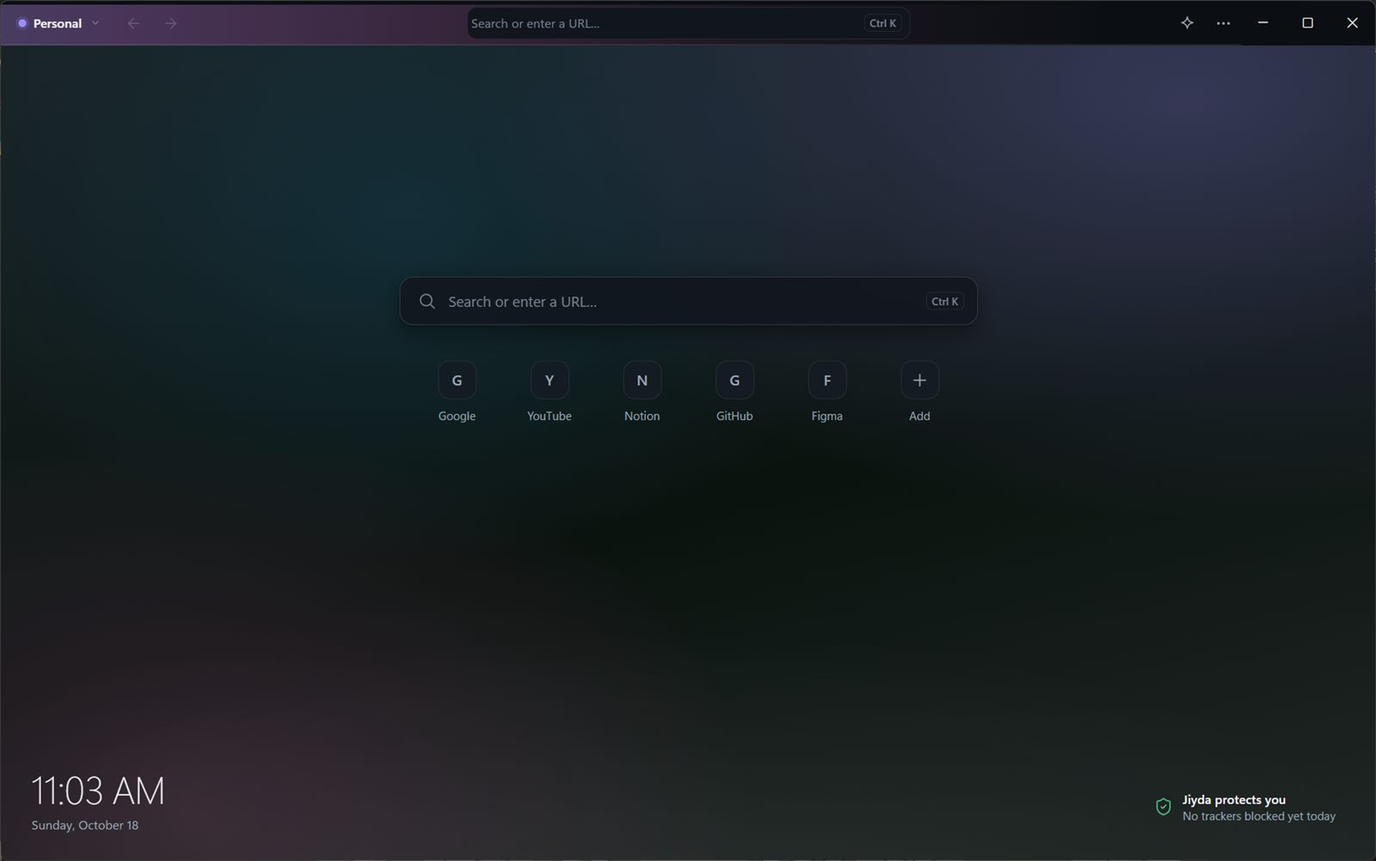
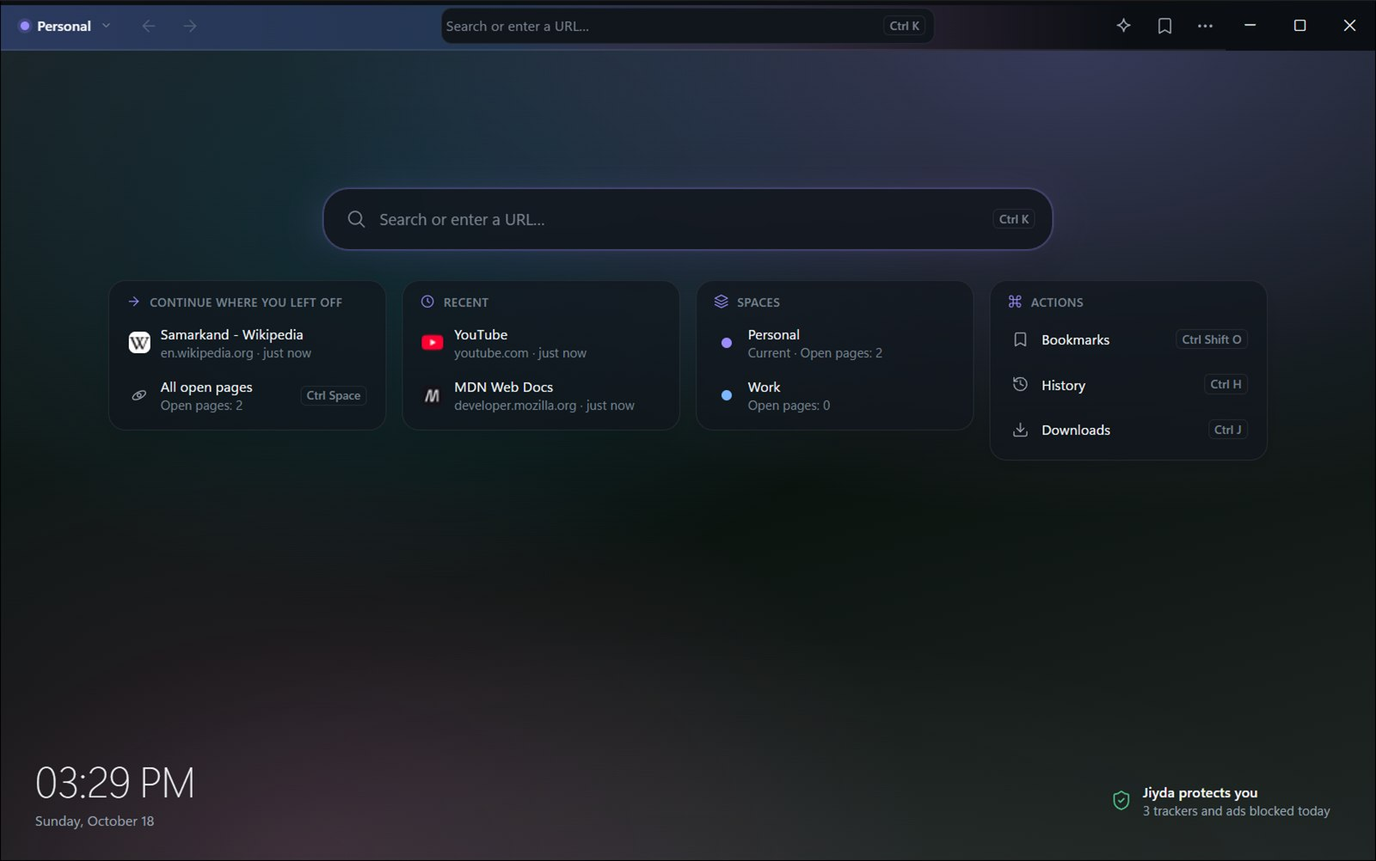
Сайт: новая New Page на скриншотах, «каждая страница на своём месте», раздел про Rust
- Скриншоты New Page с карточками и подсветкой на трёх языках.
- Новое позиционирование: Spaces и Orbit вместо полосы вкладок; заголовки, описания,
  строка под кнопкой (Rust, около 4 МБ).
- Раздел «Написан на Rust»: без Electron, около 4 МБ, WebView2 обновляет Windows,
  код открыт на GitHub.
- Карточки: New Page и «Закладки под рукой» вместо Later (теперь в Orbit) и переезда.

Публикуется вместе с релизом 0.6.4.

diff --git a/site/ru/index.html b/site/ru/index.html
@@ -3,8 +3,8 @@
 <head>
 <meta charset="utf-8">
 <meta name="viewport" content="width=device-width, initial-scale=1">
-<title>Jiyda — спокойный браузер</title>
-<meta name="description" content="Jiyda — спокойный минималистичный браузер для Windows из Узбекистана. Приватный по умолчанию, помогает сосредоточиться, бесплатный.">
+<title>Jiyda — каждая страница на своём месте</title>
+<meta name="description" content="Jiyda — бесплатный браузер для Windows, написанный на Rust в Узбекистане. Spaces и Orbit вместо полосы вкладок, New Page, которая продолжает с того места, где вы остановились, и никакой слежки.">
 <link rel="icon" href="../favicon.ico">
 <link rel="stylesheet" href="../assets/site.css">
 <link rel="alternate" hreflang="en" href="../en/">
@@ -16,6 +16,7 @@
   <a class="brand" href="./"><img src="../assets/mark.png" alt="" width="30" height="30">Jiyda</a>
   <nav aria-label="Сайт">
     <a href="#features">Возможности</a>
+    <a href="#rust">Rust</a>
     <a href="privacy.html">Приватность</a>
     <a href="security.html">Безопасность</a>
     <span class="langs" aria-label="Язык"><a href="../uz/" hreflang="uz" lang="uz">Oʻz</a><a href="./" aria-current="true">Ру</a><a href="../en/" hreflang="en" lang="en">En</a></span>
@@ -25,16 +26,16 @@
 
 <main>
   <div class="wrap hero">
-    <h1>Интернет — спокойнее.</h1>
-    <p class="lead">Jiyda — тихий браузер для Windows. Приватный по умолчанию, помогает сосредоточиться и не мешает, когда вы просто читаете.</p>
+    <h1>Каждая страница — на своём месте.</h1>
+    <p class="lead">Jiyda — браузер для Windows, написанный на Rust. Вместо полосы вкладок — Spaces для каждой части жизни и Orbit, где видно всё сразу. New Page продолжает с того места, где вы остановились, а история не покидает ваш компьютер.</p>
     <div class="cta">
       <a class="btn" href="https://github.com/chatyev/jiyda/releases/latest/download/JiydaSetup.exe">
         <svg viewBox="0 0 24 24" fill="none" stroke="currentColor" stroke-width="2" stroke-linecap="round" stroke-linejoin="round" aria-hidden="true"><path d="M12 15V3"/><path d="M21 15v4a2 2 0 0 1-2 2H5a2 2 0 0 1-2-2v-4"/><path d="m7 10 5 5 5-5"/></svg>
         Скачать для Windows</a>
       <a class="btn ghost" href="#privacy">Как Jiyda обращается с данными</a>
     </div>
-    <p class="meta">Бесплатно · Windows 10 и 11 · Oʻzbekcha, Русский, English</p>
-    <img class="shot" src="../assets/app-ru.jpg" width="1600" height="1002" alt="Окно Jiyda с новой страницей: поле поиска, несколько сайтов и надпись «Jiyda защищает вас».">
+    <p class="meta">Бесплатно · Написан на Rust · Около 4 МБ · Windows 10 и 11 · Oʻzbekcha, Русский, English</p>
+    <img class="shot" src="../assets/app-ru.jpg" width="1600" height="1002" alt="Окно Jiyda с новой страницей: поле поиска с мягкой подсветкой в цвет Space и карточки — продолжить последнюю страницу, вернуть недавние сайты, переключить Space, открыть закладки.">
   </div>
 
   <section id="features" class="wrap">
@@ -44,19 +45,34 @@
       <div class="card"><div class="ic"><svg viewBox="0 0 24 24" fill="none" stroke="currentColor" stroke-width="2" stroke-linecap="round" stroke-linejoin="round" aria-hidden="true"><path d="m12 2 10 5-10 5L2 7z"/><path d="m2 17 10 5 10-5"/><path d="m2 12 10 5 10-5"/></svg></div>
         <h3>Spaces</h3><p>Отдельные контексты для работы, учёбы и дома. У каждого Space свои страницы, куки и логины.</p></div>
       <div class="card"><div class="ic"><svg viewBox="0 0 24 24" fill="none" stroke="currentColor" stroke-width="2" stroke-linecap="round" stroke-linejoin="round" aria-hidden="true"><circle cx="12" cy="12" r="2.5"/><ellipse cx="12" cy="12" rx="10" ry="4.5" transform="rotate(-28 12 12)"/></svg></div>
-        <h3>Orbit</h3><p>Все открытые страницы, сгруппированные по смыслу. Нужная находится за секунду, без перебора вкладок.</p></div>
-      <div class="card"><div class="ic"><svg viewBox="0 0 24 24" fill="none" stroke="currentColor" stroke-width="2" stroke-linecap="round" stroke-linejoin="round" aria-hidden="true"><path d="M22 12h-6l-2 3h-4l-2-3H2"/><path d="M5.45 5.11 2 12v6a2 2 0 0 0 2 2h16a2 2 0 0 0 2-2v-6l-3.45-6.89A2 2 0 0 0 16.76 4H7.24a2 2 0 0 0-1.79 1.11z"/></svg></div>
-        <h3>Later</h3><p>Отложите страницу, не закрывая её. Разгрузите голову сейчас — вернитесь, когда будете готовы.</p></div>
+        <h3>Orbit</h3><p>Все открытые страницы, сгруппированные по смыслу. Нужная находится за секунду, без перебора вкладок. А страницу, к которой вернётесь потом, можно отложить в Later, не закрывая.</p></div>
+      <div class="card"><div class="ic"><svg viewBox="0 0 24 24" fill="none" stroke="currentColor" stroke-width="2" stroke-linecap="round" stroke-linejoin="round" aria-hidden="true"><rect width="7" height="7" x="3" y="3" rx="1"/><rect width="7" height="7" x="14" y="3" rx="1"/><rect width="7" height="7" x="14" y="14" rx="1"/><rect width="7" height="7" x="3" y="14" rx="1"/></svg></div>
+        <h3>New Page, которая помнит, где вы остановились</h3><p>Последняя страница, недавно закрытые сайты и ваши Spaces — сразу под поиском. Без стены ярлыков: только то, что уже есть на вашем компьютере.</p></div>
       <div class="card"><div class="ic"><svg viewBox="0 0 24 24" fill="none" stroke="currentColor" stroke-width="2" stroke-linecap="round" stroke-linejoin="round" aria-hidden="true"><rect width="18" height="18" x="3" y="3" rx="2"/><path d="M12 3v18"/></svg></div>
         <h3>Split View</h3><p>Две страницы рядом в одном окне: читать и писать, сравнивать, делать заметки.</p></div>
       <div class="card"><div class="ic"><svg viewBox="0 0 24 24" fill="none" stroke="currentColor" stroke-width="2" stroke-linecap="round" stroke-linejoin="round" aria-hidden="true"><circle cx="11" cy="11" r="7"/><path d="m21 21-4.3-4.3"/></svg></div>
         <h3>Командная палитра</h3><p>Ctrl+K — страницы, история, закладки и все команды в одном поле поиска.</p></div>
       <div class="card"><div class="ic"><svg viewBox="0 0 24 24" fill="none" stroke="currentColor" stroke-width="2" stroke-linecap="round" stroke-linejoin="round" aria-hidden="true"><path d="M20 13c0 5-3.5 7.5-7.66 8.95a1 1 0 0 1-.67-.01C7.5 20.5 4 18 4 13V6a1 1 0 0 1 1-1c2 0 4.5-1.2 6.24-2.72a1.17 1.17 0 0 1 1.52 0C14.51 3.81 17 5 19 5a1 1 0 0 1 1 1z"/><path d="m9 12 2 2 4-4"/></svg></div>
         <h3>Защита встроена</h3><p>Известные трекеры и реклама блокируются сразу. Сайты спрашивают, прежде чем включить камеру, микрофон или узнать местоположение.</p></div>
-      <div class="card"><div class="ic"><svg viewBox="0 0 24 24" fill="none" stroke="currentColor" stroke-width="2" stroke-linecap="round" stroke-linejoin="round" aria-hidden="true"><path d="M11.52 2.3a.53.53 0 0 1 .95 0l2.31 4.68a2.12 2.12 0 0 0 1.6 1.16l5.16.76a.53.53 0 0 1 .3.9l-3.74 3.64a2.12 2.12 0 0 0-.61 1.88l.88 5.14a.53.53 0 0 1-.77.56l-4.62-2.43a2.12 2.12 0 0 0-1.97 0L6.4 21.01a.53.53 0 0 1-.77-.56l.88-5.14a2.12 2.12 0 0 0-.61-1.88L2.16 9.8a.53.53 0 0 1 .29-.9l5.17-.76a2.12 2.12 0 0 0 1.6-1.16z"/></svg></div>
-        <h3>Переезд за минуту</h3><p>Закладки и история из Chrome или Edge переносятся в пару кликов. В старом браузере ничего не удаляется.</p></div>
+      <div class="card"><div class="ic"><svg viewBox="0 0 24 24" fill="none" stroke="currentColor" stroke-width="2" stroke-linecap="round" stroke-linejoin="round" aria-hidden="true"><path d="m19 21-7-4-7 4V5a2 2 0 0 1 2-2h10a2 2 0 0 1 2 2v16z"/></svg></div>
+        <h3>Закладки под рукой</h3><p>Кнопка на верхней панели открывает папки и поиск, Ctrl+D сохраняет страницу. Закладки и историю из Chrome или Edge можно перенести за минуту.</p></div>
       <div class="card"><div class="ic"><svg viewBox="0 0 24 24" fill="none" stroke="currentColor" stroke-width="2" stroke-linecap="round" stroke-linejoin="round" aria-hidden="true"><path d="M3 12a9 9 0 1 0 9-9 9.75 9.75 0 0 0-6.74 2.74L3 8"/><path d="M3 3v5h5"/></svg></div>
         <h3>«Отменить» вместо «Вы уверены?»</h3><p>Случайно закрыли страницу или удалили закладку? Нажмите «Отменить». А после сбоя все страницы на месте.</p></div>
+    </div>
+  </section>
+
+  <section id="rust" class="wrap">
+    <h2>Написан на Rust.</h2>
+    <p class="sub">Всё, что Jiyda делает сам, — Spaces, Orbit, защита, хранение истории и закладок — написано на Rust, языке, который исключает целые классы ошибок работы с памятью. Страницы показывает Microsoft WebView2 — движок Microsoft Edge.</p>
+    <div class="grid">
+      <div class="card"><div class="ic"><svg viewBox="0 0 24 24" fill="none" stroke="currentColor" stroke-width="2" stroke-linecap="round" stroke-linejoin="round" aria-hidden="true"><rect width="16" height="16" x="4" y="4" rx="2"/><rect width="6" height="6" x="9" y="9" rx="1"/><path d="M15 2v2"/><path d="M15 20v2"/><path d="M2 15h2"/><path d="M2 9h2"/><path d="M20 15h2"/><path d="M20 9h2"/><path d="M9 2v2"/><path d="M9 20v2"/></svg></div>
+        <h3>Без Electron</h3><p>Jiyda не тащит с собой свою копию Chromium. Ядро на Rust управляет движком WebView2, который уже есть в Windows.</p></div>
+      <div class="card"><div class="ic"><svg viewBox="0 0 24 24" fill="none" stroke="currentColor" stroke-width="2" stroke-linecap="round" stroke-linejoin="round" aria-hidden="true"><path d="M12 15V3"/><path d="M21 15v4a2 2 0 0 1-2 2H5a2 2 0 0 1-2-2v-4"/><path d="m7 10 5 5 5-5"/></svg></div>
+        <h3>Около 4 МБ</h3><p>Столько весит весь установщик: движок страниц обычно уже есть в Windows 10 и 11, поэтому скачивать тяжёлое не нужно.</p></div>
+      <div class="card"><div class="ic"><svg viewBox="0 0 24 24" fill="none" stroke="currentColor" stroke-width="2" stroke-linecap="round" stroke-linejoin="round" aria-hidden="true"><path d="M21 12a9 9 0 1 1-9-9c2.52 0 4.93 1 6.74 2.74L21 8"/><path d="M21 3v5h-5"/></svg></div>
+        <h3>Движок всегда свежий</h3><p>Windows обновляет WebView2 сама, так же как Microsoft Edge, поэтому исправления безопасности движка доходят и до Jiyda.</p></div>
+      <div class="card"><div class="ic"><svg viewBox="0 0 24 24" fill="none" stroke="currentColor" stroke-width="2" stroke-linecap="round" stroke-linejoin="round" aria-hidden="true"><path d="m16 18 6-6-6-6"/><path d="m8 6-6 6 6 6"/></svg></div>
+        <h3>Открытый код</h3><p>Исходный код Jiyda открыт на GitHub: любой может посмотреть, как он обращается с вашими страницами и данными.</p></div>
     </div>
   </section>
 

diff --git a/site/uz/index.html b/site/uz/index.html
@@ -3,8 +3,8 @@
 <head>
 <meta charset="utf-8">
 <meta name="viewport" content="width=device-width, initial-scale=1">
-<title>Jiyda — internetga sokinroq yoʻl</title>
-<meta name="description" content="Jiyda — Oʻzbekistonda yaratilgan Windows uchun sokin va minimalist brauzer. Sukut boʻyicha maxfiy, diqqatni jamlashga yordam beradi, bepul.">
+<title>Jiyda — har bir sahifa oʻz joyida</title>
+<meta name="description" content="Jiyda — Oʻzbekistonda Rust tilida yozilgan bepul Windows brauzeri. Varaqlar qatori oʻrniga Spaces va Orbit, toʻxtagan joyingizdan davom ettiradigan New Page va hech qanday kuzatuv yoʻq.">
 <link rel="icon" href="../favicon.ico">
 <link rel="stylesheet" href="../assets/site.css">
 <link rel="alternate" hreflang="en" href="../en/">
@@ -16,6 +16,7 @@
   <a class="brand" href="./"><img src="../assets/mark.png" alt="" width="30" height="30">Jiyda</a>
   <nav aria-label="Sayt">
     <a href="#features">Imkoniyatlar</a>
+    <a href="#rust">Rust</a>
     <a href="privacy.html">Maxfiylik</a>
     <a href="security.html">Xavfsizlik</a>
     <span class="langs" aria-label="Til"><a href="./" aria-current="true">Oʻz</a><a href="../ru/" hreflang="ru" lang="ru">Ру</a><a href="../en/" hreflang="en" lang="en">En</a></span>
@@ -25,16 +26,16 @@
 
 <main>
   <div class="wrap hero">
-    <h1>Internetga sokinroq yoʻl.</h1>
-    <p class="lead">Jiyda — Windows uchun osoyishta brauzer. Sukut boʻyicha maxfiy, diqqatni jamlashga yordam beradi va shunchaki oʻqiyotganingizda xalaqit bermaydi.</p>
+    <h1>Har bir sahifa — oʻz joyida.</h1>
+    <p class="lead">Jiyda — Rust tilida yozilgan Windows brauzeri. Varaqlar qatori oʻrniga hayotingizning har bir qismi uchun Spaces va hammasini birdaniga koʻrsatadigan Orbit. New Page toʻxtagan joyingizdan davom ettiradi, tarixingiz esa kompyuteringizdan chiqmaydi.</p>
     <div class="cta">
       <a class="btn" href="https://github.com/chatyev/jiyda/releases/latest/download/JiydaSetup.exe">
         <svg viewBox="0 0 24 24" fill="none" stroke="currentColor" stroke-width="2" stroke-linecap="round" stroke-linejoin="round" aria-hidden="true"><path d="M12 15V3"/><path d="M21 15v4a2 2 0 0 1-2 2H5a2 2 0 0 1-2-2v-4"/><path d="m7 10 5 5 5-5"/></svg>
         Windows uchun yuklab olish</a>
       <a class="btn ghost" href="#privacy">Jiyda maʼlumotlaringizga qanday munosabatda</a>
     </div>
-    <p class="meta">Bepul · Windows 10 va 11 · Oʻzbekcha, Русский, English</p>
-    <img class="shot" src="../assets/app-uz.jpg" width="1600" height="1002" alt="Jiyda oynasi, yangi sahifa: qidiruv maydoni, bir nechta sayt va “Jiyda sizni himoya qiladi” yozuvi.">
+    <p class="meta">Bepul · Rust tilida yozilgan · Taxminan 4 MB · Windows 10 va 11 · Oʻzbekcha, Русский, English</p>
+    <img class="shot" src="../assets/app-uz.jpg" width="1600" height="1002" alt="Jiyda oynasi, yangi sahifa: Space rangida yumshoq yoritilgan qidiruv maydoni va kartochkalar — oxirgi sahifani davom ettirish, yaqindagi saytlarni qaytarish, Spaceni almashtirish, xatchoʻplarni ochish.">
   </div>
 
   <section id="features" class="wrap">
@@ -44,19 +45,34 @@
       <div class="card"><div class="ic"><svg viewBox="0 0 24 24" fill="none" stroke="currentColor" stroke-width="2" stroke-linecap="round" stroke-linejoin="round" aria-hidden="true"><path d="m12 2 10 5-10 5L2 7z"/><path d="m2 17 10 5 10-5"/><path d="m2 12 10 5 10-5"/></svg></div>
         <h3>Spaces</h3><p>Ish, oʻqish va uy uchun alohida kontekstlar. Har bir Spacening oʻz sahifalari, cookie-fayllari va loginlari bor.</p></div>
       <div class="card"><div class="ic"><svg viewBox="0 0 24 24" fill="none" stroke="currentColor" stroke-width="2" stroke-linecap="round" stroke-linejoin="round" aria-hidden="true"><circle cx="12" cy="12" r="2.5"/><ellipse cx="12" cy="12" rx="10" ry="4.5" transform="rotate(-28 12 12)"/></svg></div>
-        <h3>Orbit</h3><p>Barcha ochiq sahifalar mazmuniga koʻra guruhlangan. Kerakli sahifani varaqlarni titkilamasdan bir soniyada topasiz.</p></div>
-      <div class="card"><div class="ic"><svg viewBox="0 0 24 24" fill="none" stroke="currentColor" stroke-width="2" stroke-linecap="round" stroke-linejoin="round" aria-hidden="true"><path d="M22 12h-6l-2 3h-4l-2-3H2"/><path d="M5.45 5.11 2 12v6a2 2 0 0 0 2 2h16a2 2 0 0 0 2-2v-6l-3.45-6.89A2 2 0 0 0 16.76 4H7.24a2 2 0 0 0-1.79 1.11z"/></svg></div>
-        <h3>Later</h3><p>Sahifani yopmasdan chetga qoʻying. Hozir fikringizni boʻshating, tayyor boʻlganingizda qayting.</p></div>
+        <h3>Orbit</h3><p>Barcha ochiq sahifalar mazmuniga koʻra guruhlangan. Kerakli sahifani varaqlarni titkilamasdan bir soniyada topasiz. Keyinroq qaytadigan sahifani yopmasdan Laterga qoʻying.</p></div>
+      <div class="card"><div class="ic"><svg viewBox="0 0 24 24" fill="none" stroke="currentColor" stroke-width="2" stroke-linecap="round" stroke-linejoin="round" aria-hidden="true"><rect width="7" height="7" x="3" y="3" rx="1"/><rect width="7" height="7" x="14" y="3" rx="1"/><rect width="7" height="7" x="14" y="14" rx="1"/><rect width="7" height="7" x="3" y="14" rx="1"/></svg></div>
+        <h3>Toʻxtagan joyingizdan davom ettiradigan New Page</h3><p>Oxirgi sahifa, yaqinda yopilgan saytlar va Spaces — qidiruv ostida. Yorliqlar devori yoʻq: faqat kompyuteringizda bor narsalar.</p></div>
       <div class="card"><div class="ic"><svg viewBox="0 0 24 24" fill="none" stroke="currentColor" stroke-width="2" stroke-linecap="round" stroke-linejoin="round" aria-hidden="true"><rect width="18" height="18" x="3" y="3" rx="2"/><path d="M12 3v18"/></svg></div>
         <h3>Split View</h3><p>Bitta oynada ikki sahifa yonma-yon: oʻqing va yozing, solishtiring, eslatma oling.</p></div>
       <div class="card"><div class="ic"><svg viewBox="0 0 24 24" fill="none" stroke="currentColor" stroke-width="2" stroke-linecap="round" stroke-linejoin="round" aria-hidden="true"><circle cx="11" cy="11" r="7"/><path d="m21 21-4.3-4.3"/></svg></div>
         <h3>Buyruqlar palitrasi</h3><p>Ctrl+K — sahifalar, tarix, xatchoʻplar va barcha buyruqlar bitta qidiruv maydonida.</p></div>
       <div class="card"><div class="ic"><svg viewBox="0 0 24 24" fill="none" stroke="currentColor" stroke-width="2" stroke-linecap="round" stroke-linejoin="round" aria-hidden="true"><path d="M20 13c0 5-3.5 7.5-7.66 8.95a1 1 0 0 1-.67-.01C7.5 20.5 4 18 4 13V6a1 1 0 0 1 1-1c2 0 4.5-1.2 6.24-2.72a1.17 1.17 0 0 1 1.52 0C14.51 3.81 17 5 19 5a1 1 0 0 1 1 1z"/><path d="m9 12 2 2 4-4"/></svg></div>
         <h3>Ichki himoya</h3><p>Maʼlum trekerlar va reklama darhol bloklanadi. Saytlar kamera, mikrofon yoki joylashuvdan foydalanishdan oldin ruxsat soʻraydi.</p></div>
-      <div class="card"><div class="ic"><svg viewBox="0 0 24 24" fill="none" stroke="currentColor" stroke-width="2" stroke-linecap="round" stroke-linejoin="round" aria-hidden="true"><path d="M11.52 2.3a.53.53 0 0 1 .95 0l2.31 4.68a2.12 2.12 0 0 0 1.6 1.16l5.16.76a.53.53 0 0 1 .3.9l-3.74 3.64a2.12 2.12 0 0 0-.61 1.88l.88 5.14a.53.53 0 0 1-.77.56l-4.62-2.43a2.12 2.12 0 0 0-1.97 0L6.4 21.01a.53.53 0 0 1-.77-.56l.88-5.14a2.12 2.12 0 0 0-.61-1.88L2.16 9.8a.53.53 0 0 1 .29-.9l5.17-.76a2.12 2.12 0 0 0 1.6-1.16z"/></svg></div>
-        <h3>Bir daqiqada koʻchib oʻting</h3><p>Chrome yoki Edgedagi xatchoʻplar va tarixni bir necha bosishda koʻchiring. Eski brauzerdan hech narsa oʻchirilmaydi.</p></div>
+      <div class="card"><div class="ic"><svg viewBox="0 0 24 24" fill="none" stroke="currentColor" stroke-width="2" stroke-linecap="round" stroke-linejoin="round" aria-hidden="true"><path d="m19 21-7-4-7 4V5a2 2 0 0 1 2-2h10a2 2 0 0 1 2 2v16z"/></svg></div>
+        <h3>Xatchoʻplar qoʻl ostida</h3><p>Yuqori paneldagi tugma jildlar va qidiruvni ochadi, Ctrl+D sahifani saqlaydi. Chrome yoki Edgedagi xatchoʻplar va tarixni bir daqiqada koʻchiring.</p></div>
       <div class="card"><div class="ic"><svg viewBox="0 0 24 24" fill="none" stroke="currentColor" stroke-width="2" stroke-linecap="round" stroke-linejoin="round" aria-hidden="true"><path d="M3 12a9 9 0 1 0 9-9 9.75 9.75 0 0 0-6.74 2.74L3 8"/><path d="M3 3v5h5"/></svg></div>
         <h3>“Ishonchingiz komilmi?” oʻrniga “Bekor qilish”</h3><p>Sahifani tasodifan yopdingizmi yoki xatchoʻpni oʻchirdingizmi? “Bekor qilish”ni bosing. Nosozlikdan keyin ham barcha sahifalar joyida.</p></div>
+    </div>
+  </section>
+
+  <section id="rust" class="wrap">
+    <h2>Rust tilida yozilgan.</h2>
+    <p class="sub">Jiyda oʻzi bajaradigan hamma narsa — Spaces, Orbit, himoya, tarix va xatchoʻplarni saqlash — Rust tilida yozilgan. Bu til xotira bilan bogʻliq xatolarning butun turlarini istisno qiladi. Sahifalarni Microsoft WebView2 — Microsoft Edge dvigateli koʻrsatadi.</p>
+    <div class="grid">
+      <div class="card"><div class="ic"><svg viewBox="0 0 24 24" fill="none" stroke="currentColor" stroke-width="2" stroke-linecap="round" stroke-linejoin="round" aria-hidden="true"><rect width="16" height="16" x="4" y="4" rx="2"/><rect width="6" height="6" x="9" y="9" rx="1"/><path d="M15 2v2"/><path d="M15 20v2"/><path d="M2 15h2"/><path d="M2 9h2"/><path d="M20 15h2"/><path d="M20 9h2"/><path d="M9 2v2"/><path d="M9 20v2"/></svg></div>
+        <h3>Electronsiz</h3><p>Jiyda oʻzi bilan Chromium nusxasini olib yurmaydi. Rustdagi yadro Windowsda allaqachon mavjud WebView2 dvigatelini boshqaradi.</p></div>
+      <div class="card"><div class="ic"><svg viewBox="0 0 24 24" fill="none" stroke="currentColor" stroke-width="2" stroke-linecap="round" stroke-linejoin="round" aria-hidden="true"><path d="M12 15V3"/><path d="M21 15v4a2 2 0 0 1-2 2H5a2 2 0 0 1-2-2v-4"/><path d="m7 10 5 5 5-5"/></svg></div>
+        <h3>Taxminan 4 MB</h3><p>Butun oʻrnatuvchi shuncha: sahifa dvigateli odatda Windows 10 va 11 da allaqachon bor, ogʻir narsani yuklab olish shart emas.</p></div>
+      <div class="card"><div class="ic"><svg viewBox="0 0 24 24" fill="none" stroke="currentColor" stroke-width="2" stroke-linecap="round" stroke-linejoin="round" aria-hidden="true"><path d="M21 12a9 9 0 1 1-9-9c2.52 0 4.93 1 6.74 2.74L21 8"/><path d="M21 3v5h-5"/></svg></div>
+        <h3>Dvigatel doim yangi</h3><p>Windows WebView2ni Microsoft Edge kabi oʻzi yangilaydi, shuning uchun dvigatel xavfsizlik tuzatishlari Jiydaga ham yetib keladi.</p></div>
+      <div class="card"><div class="ic"><svg viewBox="0 0 24 24" fill="none" stroke="currentColor" stroke-width="2" stroke-linecap="round" stroke-linejoin="round" aria-hidden="true"><path d="m16 18 6-6-6-6"/><path d="m8 6-6 6 6 6"/></svg></div>
+        <h3>Ochiq kod</h3><p>Jiyda manba kodi GitHubda ochiq: har kim u sahifalaringiz va maʼlumotlaringiz bilan qanday ishlashini koʻra oladi.</p></div>
     </div>
   </section>
 

diff --git a/site/en/index.html b/site/en/index.html
@@ -3,8 +3,8 @@
 <head>
 <meta charset="utf-8">
 <meta name="viewport" content="width=device-width, initial-scale=1">
-<title>Jiyda — a calmer way to browse</title>
-<meta name="description" content="Jiyda is a calm, minimal browser for Windows from Uzbekistan. Private by default, designed for focus, free.">
+<title>Jiyda — every page in its place</title>
+<meta name="description" content="Jiyda is a free Windows browser written in Rust and made in Uzbekistan. Spaces and Orbit instead of a tab strip, a New Page that picks up where you left off, and no tracking.">
 <link rel="icon" href="../favicon.ico">
 <link rel="stylesheet" href="../assets/site.css">
 <link rel="alternate" hreflang="en" href="../en/">
@@ -16,6 +16,7 @@
   <a class="brand" href="./"><img src="../assets/mark.png" alt="" width="30" height="30">Jiyda</a>
   <nav aria-label="Site">
     <a href="#features">Features</a>
+    <a href="#rust">Rust</a>
     <a href="privacy.html">Privacy</a>
     <a href="security.html">Security</a>
     <span class="langs" aria-label="Language"><a href="../uz/" hreflang="uz" lang="uz">Oʻz</a><a href="../ru/" hreflang="ru" lang="ru">Ру</a><a href="./" aria-current="true">En</a></span>
@@ -25,16 +26,16 @@
 
 <main>
   <div class="wrap hero">
-    <h1>A calmer way to browse.</h1>
-    <p class="lead">Jiyda is a quiet browser for Windows. Private by default, designed for focus, and out of your way when you just want to read.</p>
+    <h1>Every page in its place.</h1>
+    <p class="lead">Jiyda is a browser for Windows written in Rust. Instead of a row of tabs there are Spaces for each part of your life and Orbit, where you see everything at once. New Page picks up where you left off, and your history never leaves your computer.</p>
     <div class="cta">
       <a class="btn" href="https://github.com/chatyev/jiyda/releases/latest/download/JiydaSetup.exe">
         <svg viewBox="0 0 24 24" fill="none" stroke="currentColor" stroke-width="2" stroke-linecap="round" stroke-linejoin="round" aria-hidden="true"><path d="M12 15V3"/><path d="M21 15v4a2 2 0 0 1-2 2H5a2 2 0 0 1-2-2v-4"/><path d="m7 10 5 5 5-5"/></svg>
         Download for Windows</a>
       <a class="btn ghost" href="#privacy">How Jiyda treats your data</a>
     </div>
-    <p class="meta">Free · Windows 10 and 11 · Oʻzbekcha, Русский, English</p>
-    <img class="shot" src="../assets/app-en.jpg" width="1600" height="1002" alt="Jiyda window with New Page: a search field, a few quick sites and a note that Jiyda protects you.">
+    <p class="meta">Free · Written in Rust · About 4 MB · Windows 10 and 11 · Oʻzbekcha, Русский, English</p>
+    <img class="shot" src="../assets/app-en.jpg" width="1600" height="1002" alt="Jiyda window with New Page: a search field with a soft glow in the Space color, and cards to continue the last page, reopen recent sites, switch Spaces and open bookmarks.">
   </div>
 
   <section id="features" class="wrap">
@@ -44,19 +45,34 @@
       <div class="card"><div class="ic"><svg viewBox="0 0 24 24" fill="none" stroke="currentColor" stroke-width="2" stroke-linecap="round" stroke-linejoin="round" aria-hidden="true"><path d="m12 2 10 5-10 5L2 7z"/><path d="m2 17 10 5 10-5"/><path d="m2 12 10 5 10-5"/></svg></div>
         <h3>Spaces</h3><p>Separate contexts for work, study and home. Each Space keeps its own pages and its own cookies and logins.</p></div>
       <div class="card"><div class="ic"><svg viewBox="0 0 24 24" fill="none" stroke="currentColor" stroke-width="2" stroke-linecap="round" stroke-linejoin="round" aria-hidden="true"><circle cx="12" cy="12" r="2.5"/><ellipse cx="12" cy="12" rx="10" ry="4.5" transform="rotate(-28 12 12)"/></svg></div>
-        <h3>Orbit</h3><p>All your open pages, grouped by what they are about. Find a page in a second instead of hunting through tabs.</p></div>
-      <div class="card"><div class="ic"><svg viewBox="0 0 24 24" fill="none" stroke="currentColor" stroke-width="2" stroke-linecap="round" stroke-linejoin="round" aria-hidden="true"><path d="M22 12h-6l-2 3h-4l-2-3H2"/><path d="M5.45 5.11 2 12v6a2 2 0 0 0 2 2h16a2 2 0 0 0 2-2v-6l-3.45-6.89A2 2 0 0 0 16.76 4H7.24a2 2 0 0 0-1.79 1.11z"/></svg></div>
-        <h3>Later</h3><p>Put a page aside without closing it. Clear your head now, come back when you are ready.</p></div>
+        <h3>Orbit</h3><p>All your open pages, grouped by what they are about. Find a page in a second instead of hunting through tabs. Put a page aside in Later without closing it.</p></div>
+      <div class="card"><div class="ic"><svg viewBox="0 0 24 24" fill="none" stroke="currentColor" stroke-width="2" stroke-linecap="round" stroke-linejoin="round" aria-hidden="true"><rect width="7" height="7" x="3" y="3" rx="1"/><rect width="7" height="7" x="14" y="3" rx="1"/><rect width="7" height="7" x="14" y="14" rx="1"/><rect width="7" height="7" x="3" y="14" rx="1"/></svg></div>
+        <h3>New Page that picks up the thread</h3><p>Your last page, recently closed sites and your Spaces, right under the search. No wall of shortcuts: only what is already on your computer.</p></div>
       <div class="card"><div class="ic"><svg viewBox="0 0 24 24" fill="none" stroke="currentColor" stroke-width="2" stroke-linecap="round" stroke-linejoin="round" aria-hidden="true"><rect width="18" height="18" x="3" y="3" rx="2"/><path d="M12 3v18"/></svg></div>
         <h3>Split View</h3><p>Two pages side by side in one window: read and write, compare, take notes.</p></div>
       <div class="card"><div class="ic"><svg viewBox="0 0 24 24" fill="none" stroke="currentColor" stroke-width="2" stroke-linecap="round" stroke-linejoin="round" aria-hidden="true"><circle cx="11" cy="11" r="7"/><path d="m21 21-4.3-4.3"/></svg></div>
         <h3>Command palette</h3><p>Ctrl+K opens pages, history, bookmarks and every command from one search field.</p></div>
       <div class="card"><div class="ic"><svg viewBox="0 0 24 24" fill="none" stroke="currentColor" stroke-width="2" stroke-linecap="round" stroke-linejoin="round" aria-hidden="true"><path d="M20 13c0 5-3.5 7.5-7.66 8.95a1 1 0 0 1-.67-.01C7.5 20.5 4 18 4 13V6a1 1 0 0 1 1-1c2 0 4.5-1.2 6.24-2.72a1.17 1.17 0 0 1 1.52 0C14.51 3.81 17 5 19 5a1 1 0 0 1 1 1z"/><path d="m9 12 2 2 4-4"/></svg></div>
         <h3>Protection built in</h3><p>Known trackers and ads are blocked out of the box. Sites ask before using your camera, microphone or location.</p></div>
-      <div class="card"><div class="ic"><svg viewBox="0 0 24 24" fill="none" stroke="currentColor" stroke-width="2" stroke-linecap="round" stroke-linejoin="round" aria-hidden="true"><path d="M11.52 2.3a.53.53 0 0 1 .95 0l2.31 4.68a2.12 2.12 0 0 0 1.6 1.16l5.16.76a.53.53 0 0 1 .3.9l-3.74 3.64a2.12 2.12 0 0 0-.61 1.88l.88 5.14a.53.53 0 0 1-.77.56l-4.62-2.43a2.12 2.12 0 0 0-1.97 0L6.4 21.01a.53.53 0 0 1-.77-.56l.88-5.14a2.12 2.12 0 0 0-.61-1.88L2.16 9.8a.53.53 0 0 1 .29-.9l5.17-.76a2.12 2.12 0 0 0 1.6-1.16z"/></svg></div>
-        <h3>Move in a minute</h3><p>Bring your bookmarks and history from Chrome or Edge. Nothing is removed from the other browser.</p></div>
+      <div class="card"><div class="ic"><svg viewBox="0 0 24 24" fill="none" stroke="currentColor" stroke-width="2" stroke-linecap="round" stroke-linejoin="round" aria-hidden="true"><path d="m19 21-7-4-7 4V5a2 2 0 0 1 2-2h10a2 2 0 0 1 2 2v16z"/></svg></div>
+        <h3>Bookmarks at hand</h3><p>A button on the toolbar opens folders and search, Ctrl+D saves the page. Bring bookmarks and history from Chrome or Edge in a minute.</p></div>
       <div class="card"><div class="ic"><svg viewBox="0 0 24 24" fill="none" stroke="currentColor" stroke-width="2" stroke-linecap="round" stroke-linejoin="round" aria-hidden="true"><path d="M3 12a9 9 0 1 0 9-9 9.75 9.75 0 0 0-6.74 2.74L3 8"/><path d="M3 3v5h5"/></svg></div>
         <h3>Undo instead of “Are you sure?”</h3><p>Closed a page or removed a bookmark by mistake? Press Undo. And after a crash your pages are still there.</p></div>
+    </div>
+  </section>
+
+  <section id="rust" class="wrap">
+    <h2>Built in Rust.</h2>
+    <p class="sub">Everything Jiyda does itself — Spaces, Orbit, protection, storing your history and bookmarks — is written in Rust, a language that rules out whole classes of memory errors. Pages are shown by Microsoft WebView2, the engine of Microsoft Edge.</p>
+    <div class="grid">
+      <div class="card"><div class="ic"><svg viewBox="0 0 24 24" fill="none" stroke="currentColor" stroke-width="2" stroke-linecap="round" stroke-linejoin="round" aria-hidden="true"><rect width="16" height="16" x="4" y="4" rx="2"/><rect width="6" height="6" x="9" y="9" rx="1"/><path d="M15 2v2"/><path d="M15 20v2"/><path d="M2 15h2"/><path d="M2 9h2"/><path d="M20 15h2"/><path d="M20 9h2"/><path d="M9 2v2"/><path d="M9 20v2"/></svg></div>
+        <h3>No Electron</h3><p>Jiyda doesn’t ship its own copy of Chromium. Its Rust core drives the WebView2 engine that is already in Windows.</p></div>
+      <div class="card"><div class="ic"><svg viewBox="0 0 24 24" fill="none" stroke="currentColor" stroke-width="2" stroke-linecap="round" stroke-linejoin="round" aria-hidden="true"><path d="M12 15V3"/><path d="M21 15v4a2 2 0 0 1-2 2H5a2 2 0 0 1-2-2v-4"/><path d="m7 10 5 5 5-5"/></svg></div>
+        <h3>About 4 MB</h3><p>That is the whole installer: the page engine is usually already on Windows 10 and 11, so there is nothing heavy to download.</p></div>
+      <div class="card"><div class="ic"><svg viewBox="0 0 24 24" fill="none" stroke="currentColor" stroke-width="2" stroke-linecap="round" stroke-linejoin="round" aria-hidden="true"><path d="M21 12a9 9 0 1 1-9-9c2.52 0 4.93 1 6.74 2.74L21 8"/><path d="M21 3v5h-5"/></svg></div>
+        <h3>Engine kept up to date</h3><p>Windows updates WebView2 automatically, the same way it updates Microsoft Edge, so security fixes for the engine reach Jiyda too.</p></div>
+      <div class="card"><div class="ic"><svg viewBox="0 0 24 24" fill="none" stroke="currentColor" stroke-width="2" stroke-linecap="round" stroke-linejoin="round" aria-hidden="true"><path d="m16 18 6-6-6-6"/><path d="m8 6-6 6 6 6"/></svg></div>
+        <h3>Code in the open</h3><p>Jiyda’s source code is public on GitHub: anyone can read how it handles your pages and your data.</p></div>
     </div>
   </section>
 

diff --git a/site/index.html b/site/index.html
@@ -4,7 +4,7 @@
 <meta charset="utf-8">
 <meta name="viewport" content="width=device-width, initial-scale=1">
 <title>Jiyda</title>
-<meta name="description" content="Jiyda — a calm, minimal browser for Windows from Uzbekistan.">
+<meta name="description" content="Jiyda — a Windows browser written in Rust, made in Uzbekistan. Every page in its place.">
 <link rel="icon" href="favicon.ico">
 <link rel="stylesheet" href="assets/site.css">
 <link rel="alternate" hreflang="uz" href="uz/">
